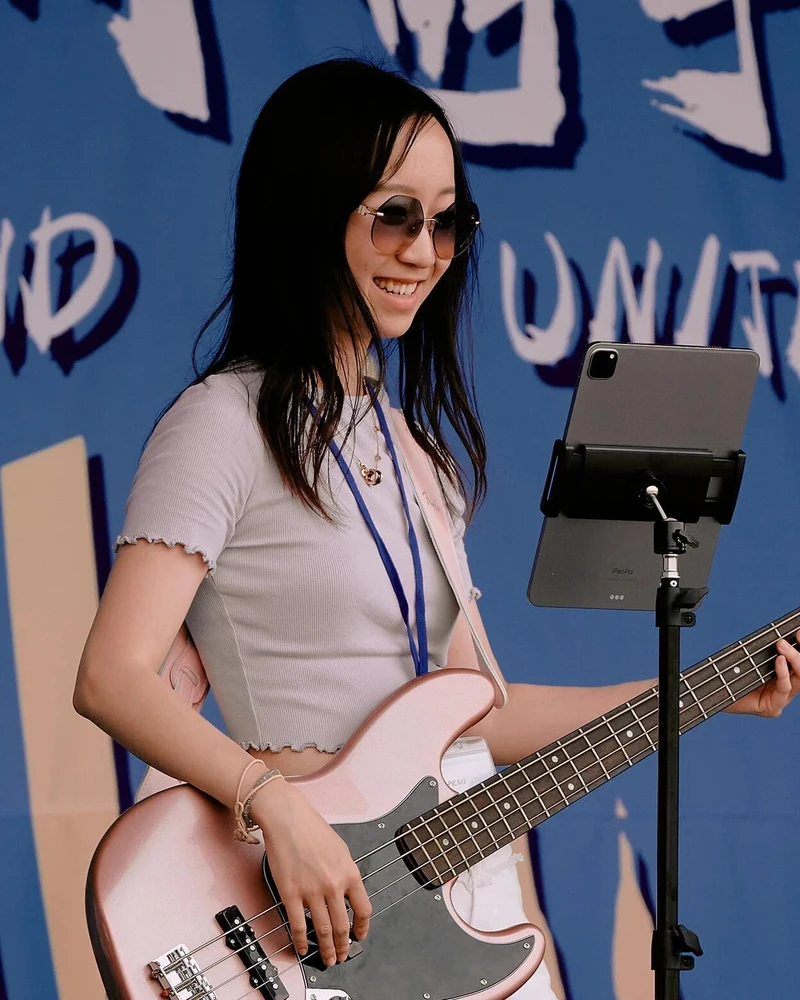
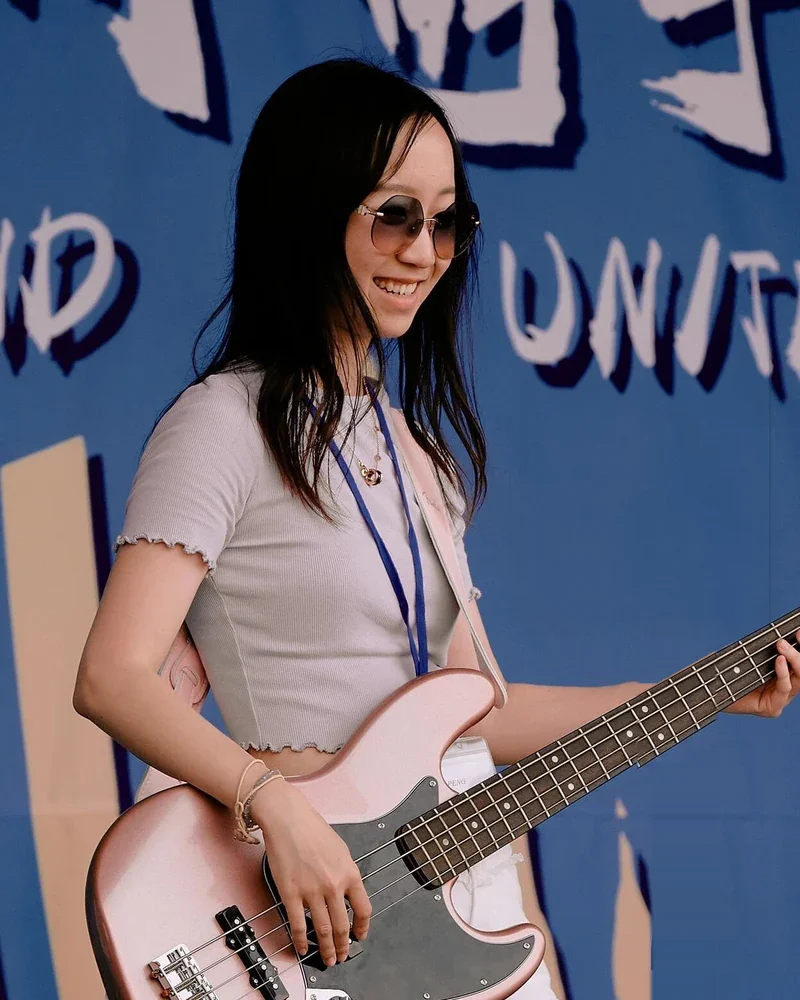
Member photos: Anki without tablet/stand, Minghao photo 11; v=20261117f

Changed region(s): [[0.6562, 0.341, 0.9688, 1.0]]

diff --git a/index.html b/index.html
@@ -38,8 +38,8 @@
       d.className += ' motion ' + (ok ? 'sda' : 'sdf');
     })();
   </script>
-<link crossorigin="" href="https://cdn.jsdelivr.net" rel="preconnect"/><link href="https://cdn.jsdelivr.net/npm/lxgw-wenkai-webfont@1.7.0/lxgwwenkai-regular.css" media="print" onload="this.media='all'" rel="stylesheet"/><noscript><link href="https://cdn.jsdelivr.net/npm/lxgw-wenkai-webfont@1.7.0/lxgwwenkai-regular.css" rel="stylesheet"/></noscript><link href="style.css?v=20261117e" rel="stylesheet"/>
-<script defer="" onerror="document.documentElement.className=''" src="motion.js?v=20261117e"></script>
+<link crossorigin="" href="https://cdn.jsdelivr.net" rel="preconnect"/><link href="https://cdn.jsdelivr.net/npm/lxgw-wenkai-webfont@1.7.0/lxgwwenkai-regular.css" media="print" onload="this.media='all'" rel="stylesheet"/><noscript><link href="https://cdn.jsdelivr.net/npm/lxgw-wenkai-webfont@1.7.0/lxgwwenkai-regular.css" rel="stylesheet"/></noscript><link href="style.css?v=20261117f" rel="stylesheet"/>
+<script defer="" onerror="document.documentElement.className=''" src="motion.js?v=20261117f"></script>
 </head>
 <body>
 <a class="skip" data-i18n="t001" href="#main">跳到正文</a>
@@ -522,7 +522,7 @@
 </div>
 </article>
 <article class="member sd">
-<img alt="Minghao Qin 薯条打鼓" class="member-photo sd zoom" data-i18n-alt="alt123" decoding="async" height="1000" loading="lazy" style="object-position:50% 35%" src="img/member-minghao.webp" width="800" srcset="img/s/member-minghao-480.webp 480w, img/member-minghao.webp 800w" sizes="(max-width: 980px) 46vw, 240px"/>
+<img alt="Minghao Qin 薯条打鼓" class="member-photo sd zoom" data-i18n-alt="alt123" decoding="async" height="1000" loading="lazy" style="object-position:50% 30%" src="img/member-minghao.webp?v=20261117f" width="800" srcset="img/s/member-minghao-480.webp?v=20261117f 480w, img/member-minghao.webp?v=20261117f 800w" sizes="(max-width: 980px) 46vw, 240px"/>
 <div class="member-body">
 <h3>Minghao Qin</h3>
 <span class="nick" data-i18n="t124">薯条</span>
@@ -531,7 +531,7 @@
 </div>
 </article>
 <article class="member sd">
-<img alt="Anki 安淇弹贝斯" class="member-photo sd zoom" data-i18n-alt="alt127" decoding="async" height="1000" loading="lazy" src="img/member-anki.webp" width="800" srcset="img/s/member-anki-480.webp 480w, img/member-anki.webp 800w" sizes="(max-width: 980px) 46vw, 240px"/>
+<img alt="Anki 安淇弹贝斯" class="member-photo sd zoom" data-i18n-alt="alt127" decoding="async" height="1000" loading="lazy" src="img/member-anki.webp?v=20261117f" width="800" srcset="img/s/member-anki-480.webp?v=20261117f 480w, img/member-anki.webp?v=20261117f 800w" sizes="(max-width: 980px) 46vw, 240px"/>
 <div class="member-body">
 <h3>Anki</h3>
 <span class="nick" data-i18n="t128">安淇</span>
@@ -830,8 +830,8 @@
       document.addEventListener('webkitfullscreenchange', onFs);
     });
   </script>
-  <script src="i18n.js?v=20261117e"></script>
-  <script src="listen.js?v=20261117e"></script>
+  <script src="i18n.js?v=20261117f"></script>
+  <script src="listen.js?v=20261117f"></script>
 
 <script>
     (function () {
